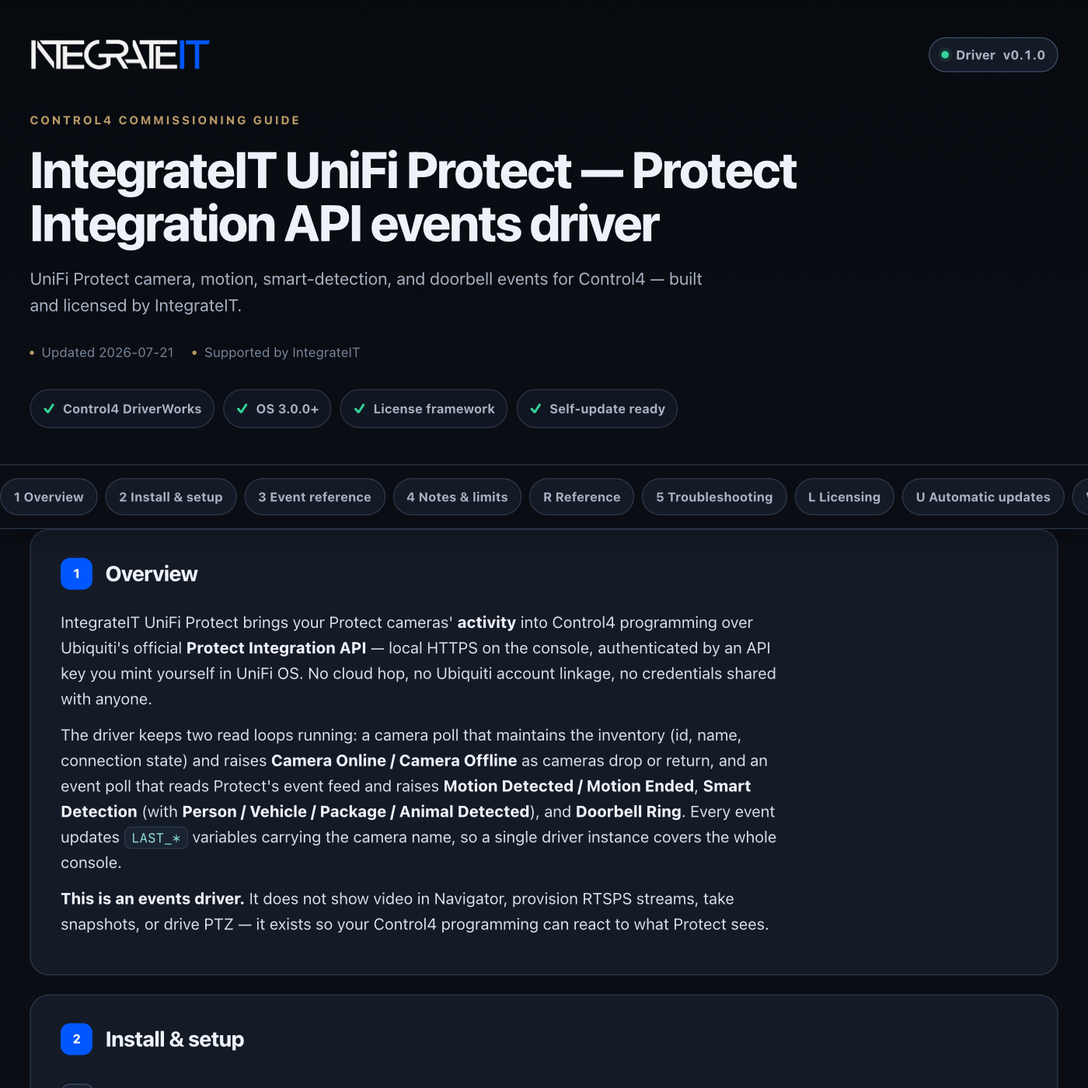
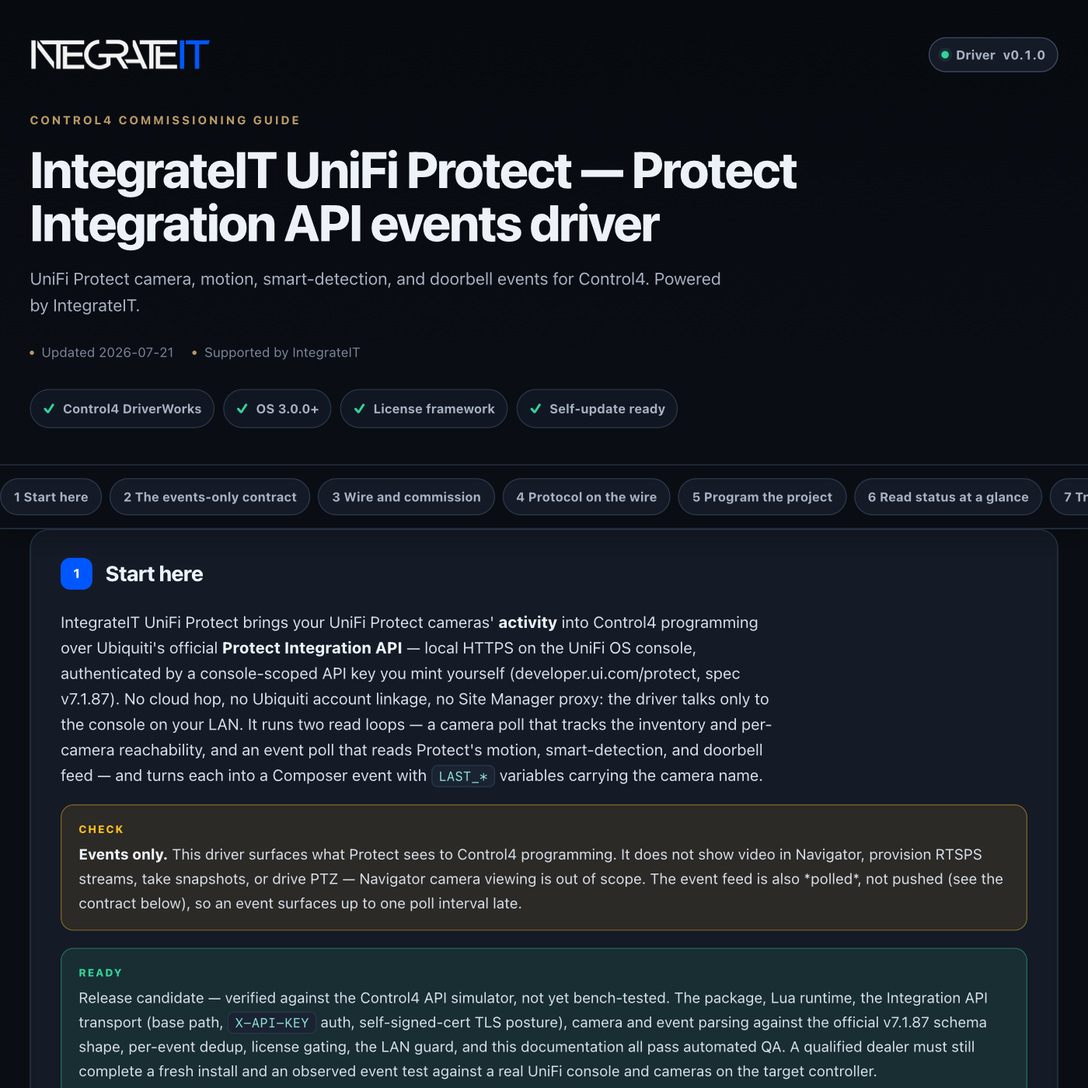
control4: publish driver channel (integrateit_unifi_protect 0.1.1)

diff --git a/control4/integrateit_unifi_protect/documentation.html b/control4/integrateit_unifi_protect/documentation.html
@@ -179,13 +179,13 @@ td code{white-space:normal}
     <div class="wrap">
       <div class="brandbar">
[1 lines of base64/hex data omitted]
-        <span class="version"><span class="word">Driver</span> v0.1.0</span>
+        <span class="version"><span class="word">Driver</span> v0.1.1</span>
       </div>
       <p class="eyebrow">Control4 commissioning guide</p>
       <h1>IntegrateIT UniFi Protect — Protect Integration API events driver</h1>
-      <p class="sub">UniFi Protect camera, motion, smart-detection, and doorbell events for Control4 — built and licensed by IntegrateIT.</p>
+      <p class="sub">UniFi Protect camera, motion, smart-detection, and doorbell events for Control4. Powered by IntegrateIT.</p>
       <div class="meta">
-        <span>Updated 2026-07-21</span>
+        <span>Updated 2026-07-26</span>
         <span>Supported by IntegrateIT</span>
       </div>
       <div class="readiness" aria-label="Driver capabilities">
@@ -198,58 +198,143 @@ td code{white-space:normal}
   </header>
 
   <div class="toc-wrap">
-    <nav class="toc wrap" aria-label="Documentation sections"><a href="#overview">1 Overview</a><a href="#install">2 Install &amp; setup</a><a href="#events">3 Event reference</a><a href="#notes">4 Notes &amp; limits</a><a href="#reference">R Reference</a><a href="#troubleshooting">5 Troubleshooting</a><a href="#licensing">L Licensing</a><a href="#updates">U Automatic updates</a><a href="#changelog">V Version history</a></nav>
+    <nav class="toc wrap" aria-label="Documentation sections"><a href="#overview">1 Start here</a><a href="#events-only">2 The events-only contract</a><a href="#setup">3 Wire and commission</a><a href="#protocol">4 Protocol on the wire</a><a href="#programming">5 Program the project</a><a href="#status">6 Read status at a glance</a><a href="#troubleshooting">7 Troubleshoot methodically</a><a href="#trust">8 Ownership, privacy, and licensing</a><a href="#reference">R Reference</a><a href="#licensing">L Licensing</a><a href="#updates">U Automatic updates</a><a href="#changelog">V Version history</a></nav>
   </div>
 
   <main class="wrap">
     <section class="card" id="overview" data-card="overview">
-  <h2><span class="n">1</span> Overview</h2>
-  <p>IntegrateIT UniFi Protect brings your Protect cameras' <b>activity</b> into Control4 programming over Ubiquiti's official <b>Protect Integration API</b> — local HTTPS on the console, authenticated by an API key you mint yourself in UniFi OS. No cloud hop, no Ubiquiti account linkage, no credentials shared with anyone.</p>
-  <p>The driver keeps two read loops running: a camera poll that maintains the inventory (id, name, connection state) and raises <b>Camera Online / Camera Offline</b> as cameras drop or return, and an event poll that reads Protect's event feed and raises <b>Motion Detected / Motion Ended</b>, <b>Smart Detection</b> (with <b>Person / Vehicle / Package / Animal Detected</b>), and <b>Doorbell Ring</b>. Every event updates <code>LAST_*</code> variables carrying the camera name, so a single driver instance covers the whole console.</p>
-  <p><b>This is an events driver.</b> It does not show video in Navigator, provision RTSPS streams, take snapshots, or drive PTZ — it exists so your Control4 programming can react to what Protect sees.</p>
+  <h2><span class="n">1</span> Start here</h2>
+  <p>IntegrateIT UniFi Protect brings your UniFi Protect cameras' <b>activity</b> into Control4 programming over Ubiquiti's official <b>Protect Integration API</b> — local HTTPS on the UniFi OS console, authenticated by a console-scoped API key you mint yourself (developer.ui.com/protect, spec v7.1.87). No cloud hop, no Ubiquiti account linkage, no Site Manager proxy: the driver talks only to the console on your LAN. It runs two read loops — a camera poll that tracks the inventory and per-camera reachability, and an event poll that reads Protect's motion, smart-detection, and doorbell feed — and turns each into a Composer event with <code>LAST_*</code> variables carrying the camera name.</p>
+  <div class="note warn"><b>Events only.</b> This driver surfaces what Protect sees to Control4 programming. It does not show video in Navigator, provision RTSPS streams, take snapshots, or drive PTZ — Navigator camera viewing is out of scope. The event feed is also *polled*, not pushed (see the contract below), so an event surfaces up to one poll interval late.</div>
+  <div class="note good">Release candidate — verified against the Control4 API simulator, not yet bench-tested. The package, Lua runtime, the Integration API transport (base path, <code>X-API-KEY</code> auth, self-signed-cert TLS posture), camera and event parsing against the official v7.1.87 schema shape, per-event dedup, license gating, the LAN guard, and this documentation all pass automated QA. A qualified dealer must still complete a fresh install and an observed event test against a real UniFi console and cameras on the target controller.</div>
+  <p><b>What you get</b></p>
+  <ul>
+    <li>Motion Detected / Motion Ended per camera from Protect's event feed</li>
+    <li>Smart detections — a generic <b>Smart Detection</b> plus <b>Person / Vehicle / Package / Animal Detected</b>, with the type in <code>LAST_SMART_TYPE</code></li>
+    <li><b>Doorbell Ring</b> events from G4/G5 doorbells, with <code>LAST_RING_CAMERA</code></li>
+    <li>Camera inventory (<code>CAMERA_COUNT</code> / <code>CAMERAS_CONNECTED</code>) and <b>Camera Online / Camera Offline</b> on real connection-state transitions</li>
+    <li><b>Console Online / Console Offline</b> reachability events and a <code>CONSOLE_ONLINE</code> variable</li>
+    <li>A <b>Watched Cameras</b> filter to scope event firing to specific camera ids</li>
+    <li>Diagnostic actions — <b>Test Connection</b>, <b>List Cameras</b>, <b>Print Configuration</b></li>
+    <li>LAN-only destination guard, an API key that is never written to the log, and MAC-locked IntegrateIT licensing</li>
+  </ul>
 </section>
 
-<section class="card" id="install" data-card="install">
-  <h2><span class="n">2</span> Install &amp; setup</h2>
+<section class="card" id="events-only" data-card="events-only">
+  <h2><span class="n">2</span> The events-only contract</h2>
+  <p>This driver reports what Protect tells it and nothing more. It reads two endpoints and never fabricates a camera, a state, or an event the console did not report.</p>
+  <ul>
+    <li><b>No media, ever.</b> There is no video, stream, snapshot, or PTZ path in this driver — not disabled, absent. It is an event bridge for programming; anything claiming otherwise would be faking it.</li>
+    <li><b>The event feed is polled, not pushed.</b> Protect publishes motion / smart-detect / ring events on a WebSocket subscription (<code>GET /v1/subscribe/events</code>). This version polls that path over plain HTTPS every <b>Event Poll (s)</b> (default 3 s) instead of holding a WebSocket, so an event surfaces up to one interval late. A console that answers the path only after a WebSocket upgrade rejects the poll — the driver says exactly that in <b>Event Feed</b> and does not pretend events are flowing. Realtime WebSocket push is planned, not in v0.1.0.</li>
+    <li><b>Camera-offline trails reality.</b> Camera Online/Offline derive from the per-camera connection state reported on the <b>Camera Poll (s)</b> cadence (default 30 s), so a drop is observed up to one camera-poll interval after it happens.</li>
+    <li><b>CONNECTING is not "down".</b> The console reports CONNECTED, CONNECTING, or DISCONNECTED. Only the two settled endpoints move the published state and fire an event; a transient CONNECTED→CONNECTING→CONNECTED blip (adoption, reconnect) fires nothing, and an unparsable state is never treated as a transition.</li>
+    <li><b>The camera poll owns the offline verdict.</b> On the wire, Console Offline is declared only by the camera poll's definitive REST endpoint (<code>GET /v1/cameras</code>). The event poll targets a WebSocket endpoint a healthy console can silently drop, so it may only *confirm* the console is reachable — it never declares it offline, and a transient event-poll drop can't flap Console Offline/Online. The one path outside the camera poll is the LAN guard: a blocked console address marks the console offline from either loop, because nothing was sent at all.</li>
+    <li><b>A camera is known by its id until inventory names it.</b> Event <code>LAST_*</code> variables carry the camera's name once the camera poll has learned it; until then they carry the raw id. The first observation of any camera adopts its state silently — no boot-time flood of Online/Offline events.</li>
+  </ul>
+</section>
+
+<section class="card" id="setup" data-card="setup">
+  <h2><span class="n">3</span> Wire and commission</h2>
   <ol class="steps">
-    <li>On the console, sign in to <b>UniFi OS</b> → Settings → <b>Control Plane</b> → <b>Integrations</b> → <b>Create API Key</b>. Copy the key immediately — UniFi shows it only once.</li>
-    <li>Note the console's <b>IP address</b> (reserve it in the router's DHCP table so it does not change).</li>
-    <li>Add this driver to the project. Enter <code>Console IP Address</code> and <code>API Key</code> (<code>Console Port</code> stays 443 unless you changed it).</li>
-    <li>Run the <b>Test Connection</b> action — it calls <code>GET /v1/meta/info</code> and prints the Protect version the console answered with.</li>
-    <li>Run <b>List Cameras</b> — it prints every camera's id, name, and connection state. Optionally paste ids into <code>Watched Cameras</code> to scope events to specific cameras.</li>
-    <li>In Programming, react to the events (see below) and read the <code>LAST_*</code> variables for the camera name.</li>
-    <li>Optionally enter a <code>License Key</code> (see Licensing) — the driver runs in Lenient mode without one.</li>
+    <li>On the console, sign in to <b>UniFi OS</b> → <b>Settings</b> → <b>Control Plane</b> → <b>Integrations</b> → <b>Create API Key</b>. Copy the key immediately — UniFi shows it once. It is console-scoped and sent only as the <code>X-API-KEY</code> header.</li>
+    <li>Reserve the console's <b>IP address</b> in the router's DHCP table so it cannot move out from under the driver.</li>
+    <li>Add <b>IntegrateIT UniFi Protect</b> to the project. Set <b>Console IP Address</b> and <b>API Key</b>; leave <b>Console Port</b> at 443 unless you changed it. The address must be on the LAN — a public or routed host is refused unless you deliberately set <b>Allow WAN Console</b> to Yes.</li>
+    <li>Run the <b>Test Connection</b> action. It calls <code>GET /v1/meta/info</code> and prints the Protect application version the console answered with; <b>Console Status</b> then reads <code>Online — Protect &lt;version&gt;</code>.</li>
+    <li>Run <b>List Cameras</b>. It prints every camera's id, name, and state. To scope events to specific cameras, paste their ids (comma-separated) into <b>Watched Cameras</b>; leave it empty for all cameras.</li>
+    <li>In Programming, add reactions to the events below and read the <code>LAST_*</code> variables for the camera name. Trip a real camera and confirm <b>Motion Detected</b> fires, then <b>Motion Ended</b> follows — that proves the whole path end to end.</li>
+    <li>For production, enter a <b>License Key</b> and run <b>Activate License Now</b>. <b>License Enforcement</b> ships as <code>Lenient (recommended)</code>, which lets an unactivated driver fire events while <code>License Status</code> carries the nag; <code>Strict</code> withholds every event until a key is activated against this controller.</li>
   </ol>
 </section>
 
-<section class="card" id="events" data-card="events">
-  <h2><span class="n">3</span> Event reference</h2>
+<section class="card" id="protocol" data-card="protocol">
+  <h2><span class="n">4</span> Protocol on the wire</h2>
+  <p>Every request is HTTPS to the console on the official local base path, with the API key as the only credential. Turn on <b>Debug Mode → Print</b> to watch each call in the Lua output window — method and path only; the key is never shown.</p>
+  <p>Base path: <code>https://&lt;console&gt;:&lt;port&gt;/proxy/protect/integration</code></p>
   <table>
-    <tr><th>Event</th><th>Fires when</th><th>Variables updated</th></tr>
-    <tr><td>Motion Detected</td><td>A camera reports a new motion event</td><td><code>LAST_MOTION_CAMERA</code>, <code>LAST_EVENT_CAMERA</code>, <code>LAST_EVENT_TYPE</code></td></tr>
-    <tr><td>Motion Ended</td><td>That motion event's end timestamp arrives</td><td><code>LAST_EVENT_TYPE</code></td></tr>
-    <tr><td>Smart Detection</td><td>Any smart detection (all types)</td><td><code>LAST_SMART_TYPE</code>, <code>LAST_SMART_CAMERA</code></td></tr>
-    <tr><td>Person / Vehicle / Package / Animal Detected</td><td>The smart detection included that type</td><td>same as Smart Detection</td></tr>
-    <tr><td>Doorbell Ring</td><td>A doorbell button was pressed</td><td><code>LAST_RING_CAMERA</code></td></tr>
-    <tr><td>Camera Online / Offline</td><td>A camera's connection state changed</td><td><code>LAST_OFFLINE_CAMERA</code> (offline only)</td></tr>
-    <tr><td>Console Online / Offline</td><td>The console became (un)reachable</td><td><code>CONSOLE_ONLINE</code></td></tr>
+    <tr><th>Call</th><th>Purpose</th></tr>
+    <tr><td><code>GET /v1/meta/info</code></td><td>Test Connection — reads <code>applicationVersion</code></td></tr>
+    <tr><td><code>GET /v1/cameras</code></td><td>Camera inventory + per-camera <code>state</code> (the authoritative reachability and online/offline source)</td></tr>
+    <tr><td><code>GET /v1/subscribe/events</code></td><td>The event feed, polled over HTTPS for <code>add</code> / <code>update</code> frames</td></tr>
   </table>
-  <p><code>CAMERA_COUNT</code> and <code>CAMERAS_CONNECTED</code> track the inventory. <b>Refresh Cameras</b> and <b>Poll Events Now</b> commands force either loop immediately.</p>
+  <p>Event frames are envelopes <code>{"type":"add"|"update","item":{…}}</code> whose <code>item</code> is a discriminated union; the driver keys off the literal <code>type</code> constant (<code>motion</code>, <code>ring</code>, <code>smartDetect…</code>), so JSON key order never matters and a truncated body yields no events at all. A motion frame carrying an <code>end</code> timestamp is what fires <b>Motion Ended</b>; smart frames carry <code>smartDetectTypes</code>.</p>
+  <table>
+    <tr><th>HTTP status</th><th>The driver's reading</th></tr>
+    <tr><td><code>200</code></td><td>Parsed normally</td></tr>
+    <tr><td><code>401</code> / <code>403</code></td><td>The console answered but refused the key — check <b>API Key</b></td></tr>
+    <tr><td><code>400</code> / <code>404</code> / <code>405</code> / <code>426</code> (event feed)</td><td>This console serves events only across a WebSocket upgrade; reported in <b>Event Feed</b>, camera online/offline keep working</td></tr>
+    <tr><td><code>0</code> (no response)</td><td>Transport failure. On the camera poll this is the Console Offline verdict; on the event poll it only marks the feed offline, never the console</td></tr>
+  </table>
+  <p>UniFi consoles ship a self-signed certificate, so the driver relaxes TLS verification by default (<code>ssl_verify_peer</code> / <code>ssl_verify_host</code> off). Set <b>Verify TLS Certificate</b> to Yes only for a console presenting a certificate the controller can validate. On very old OS builds without the modern URL API the driver falls back to a legacy HTTP path that cannot relax verification and may fail against a self-signed console.</p>
 </section>
 
-<section class="card" id="notes" data-card="notes">
-  <h2><span class="n">4</span> Notes &amp; limits</h2>
+<section class="card" id="programming" data-card="programming">
+  <h2><span class="n">5</span> Program the project</h2>
+  <table>
+    <tr><th>Event</th><th>Fires when</th><th>Variables set</th></tr>
+    <tr><td>Motion Detected</td><td>A camera reports a new motion event</td><td><code>LAST_EVENT_CAMERA</code>, <code>LAST_EVENT_TYPE</code>, <code>LAST_MOTION_CAMERA</code></td></tr>
+    <tr><td>Motion Ended</td><td>That motion's end timestamp arrives</td><td><code>LAST_EVENT_CAMERA</code>, <code>LAST_EVENT_TYPE</code> (= <code>motion-end</code>) — <code>LAST_MOTION_CAMERA</code> is left as it was</td></tr>
+    <tr><td>Smart Detection</td><td>Any smart detection, any type</td><td><code>LAST_EVENT_CAMERA</code>, <code>LAST_EVENT_TYPE</code>, <code>LAST_SMART_CAMERA</code>, <code>LAST_SMART_TYPE</code></td></tr>
+    <tr><td>Person / Vehicle / Package / Animal Detected</td><td>The smart detection included that type</td><td>as Smart Detection (one event per type present)</td></tr>
+    <tr><td>Doorbell Ring</td><td>A doorbell button was pressed</td><td><code>LAST_EVENT_CAMERA</code>, <code>LAST_EVENT_TYPE</code>, <code>LAST_RING_CAMERA</code></td></tr>
+    <tr><td>Camera Online / Camera Offline</td><td>A camera settled to CONNECTED / DISCONNECTED</td><td><code>LAST_OFFLINE_CAMERA</code> (offline), <code>CAMERAS_CONNECTED</code></td></tr>
+    <tr><td>Console Online / Console Offline</td><td>The console became (un)reachable</td><td><code>CONSOLE_ONLINE</code></td></tr>
+  </table>
+  <table>
+    <tr><th>Variable</th><th>Type</th><th>Meaning</th></tr>
+    <tr><td><code>CONSOLE_ONLINE</code></td><td>BOOL</td><td>Live console-reachability mirror (tracks even when events are license-withheld)</td></tr>
+    <tr><td><code>CAMERA_COUNT</code> / <code>CAMERAS_CONNECTED</code></td><td>STRING</td><td>Inventory totals from the last camera poll</td></tr>
+    <tr><td><code>LAST_EVENT_TYPE</code> / <code>LAST_EVENT_CAMERA</code></td><td>STRING</td><td>Kind (<code>motion</code>, <code>motion-end</code>, <code>ring</code>, <code>smart</code>) and camera of the last feed event</td></tr>
+    <tr><td><code>LAST_MOTION_CAMERA</code> / <code>LAST_RING_CAMERA</code></td><td>STRING</td><td>Camera name of the last motion / ring</td></tr>
+    <tr><td><code>LAST_SMART_CAMERA</code> / <code>LAST_SMART_TYPE</code></td><td>STRING</td><td>Camera and first detected type of the last smart detection</td></tr>
+    <tr><td><code>LAST_OFFLINE_CAMERA</code></td><td>STRING</td><td>Camera name of the last Camera Offline</td></tr>
+  </table>
+  <p>Three ways these wire into Composer programming:</p>
   <ul>
-    <li><b>Events are polled, not pushed.</b> Protect publishes motion/smart/ring events on a WebSocket subscription (<code>GET /v1/subscribe/events</code>); this version polls that path over plain HTTPS on the <code>Event Poll (s)</code> interval instead of holding a WebSocket. Event latency is up to one poll interval. A console that answers the event path only after a WebSocket upgrade rejects the poll — the driver reports exactly that in <code>Event Feed</code>, and camera online/offline events (which come from the camera poll) keep working. Realtime WebSocket push is planned, not in v0.1.0.</li>
-    <li><b>Camera-offline detection trails by up to one camera poll</b> (default 30 s) — it derives from the console's reported per-camera connection state.</li>
-    <li><b>Self-signed HTTPS.</b> UniFi consoles ship a self-signed certificate, so the driver skips TLS certificate verification by default. Set <code>Verify TLS Certificate</code> to Yes only if your console presents a validatable certificate. Traffic is still TLS-encrypted either way.</li>
-    <li>The <code>API Key</code> is treated as a secret: it is sent only in the <code>X-API-KEY</code> request header and is never written to the Lua log, even with Debug Mode on.</li>
-    <li>The driver refuses a non-LAN console address unless <code>Allow WAN Console</code> is set to Yes. The Site Manager cloud proxy (api.ui.com) is not used.</li>
-    <li>Sensor, siren, light, viewer, and alarm-manager surfaces of the Integration API are out of scope for this version — cameras only.</li>
+    <li><b>When Doorbell Ring fires → announce and turn on the entry lights.</b> Read <code>LAST_RING_CAMERA</code> to name which door on a multi-doorbell site.</li>
+    <li><b>When Person Detected fires after dark → run a "driveway arrival" scene.</b> Gate on <code>LAST_SMART_CAMERA</code> to react only for the camera you mean.</li>
+    <li><b>When Camera Offline fires → notify the homeowner and log <code>LAST_OFFLINE_CAMERA</code>.</b> Pair it with Camera Online to auto-clear the alert.</li>
   </ul>
+  <p>Composer event delivery is the licensed product, so <b>every</b> event above — including Console Online/Offline — is held back under Strict enforcement on an unlicensed controller; the read loops still run and the state variables (<code>CONSOLE_ONLINE</code>, <code>CAMERA_COUNT</code>, …) still track, so Status stays honest. Lenient mode fires everything and keeps <code>License Status</code> carrying the nag. <b>Refresh Cameras</b> and <b>Poll Events Now</b> force either loop immediately.</p>
+</section>
+
+<section class="card" id="status" data-card="status">
+  <h2><span class="n">6</span> Read status at a glance</h2>
+  <table>
+    <tr><th>Property</th><th>Healthy result</th><th>What it means otherwise</th></tr>
+    <tr><td><code>Console Status</code></td><td><code>Online — Protect &lt;version&gt;</code> after Test Connection</td><td><code>Unknown</code> until the first Test Connection, <code>No console IP set</code>, <code>Blocked: …</code> (LAN guard), <code>Auth failed (HTTP n)</code>, <code>Offline (no response)</code>, or <code>Console error (HTTP n)</code></td></tr>
+    <tr><td><code>Event Feed</code></td><td><code>Polling (Ns)</code></td><td><code>Auth failed …</code> (key), the WebSocket-upgrade message (this firmware needs push), <code>Offline (no response)</code>, or <code>Blocked: …</code></td></tr>
+    <tr><td><code>Cameras</code></td><td><code>&lt;n&gt; connected / &lt;total&gt;</code></td><td><code>None found</code>, <code>Auth failed …</code>, or <code>Console error (HTTP n)</code></td></tr>
+    <tr><td><code>CONSOLE_ONLINE</code></td><td><code>1</code> once either poll gets any HTTP status back — an answer of any kind proves the console is there</td><td><code>0</code> after the camera poll gets no response, or while the LAN guard is blocking the configured address</td></tr>
+    <tr><td><code>License Status</code></td><td>Activated, or Lenient during commissioning</td><td>Enter a key before selecting Strict enforcement</td></tr>
+  </table>
+  <p><code>CONSOLE_ONLINE</code> (with the Console Online/Offline events) is the live reachability signal — program against it, not against the text property. <b>Console Status</b> is painted by <b>Test Connection</b>, by the LAN guard, and by a missing console IP; the pollers do not repaint it. On a console you never ran Test Connection against it stays at <code>Unknown</code> even while the driver is polling it happily, so run Test Connection when you want that line refreshed. <b>Print Configuration</b> writes the console, poll intervals, watched-camera filter, TLS/WAN posture, and camera count to the Lua output window — the API key appears only as a character count, never its value.</p>
+</section>
+
+<section class="card" id="troubleshooting" data-card="troubleshooting">
+  <h2><span class="n">7</span> Troubleshoot methodically</h2>
+  <table>
+    <tr><th>Symptom</th><th>Likely cause</th><th>Fix</th></tr>
+    <tr><td>Nothing responds; <code>Console Status</code> <code>Offline (no response)</code></td><td>Wrong IP/port, or the host is not a UniFi OS console running Protect</td><td>Confirm the reserved LAN IP and port 443, then run <b>Test Connection</b></td></tr>
+    <tr><td><code>Console Status</code> / <code>Event Feed</code> reads <code>Blocked: …</code></td><td>The console address is not on the LAN</td><td>Use the console's LAN IP, or set <b>Allow WAN Console</b> to Yes only if you truly mean to route to it</td></tr>
+    <tr><td><code>Auth failed (HTTP 401/403)</code> anywhere</td><td>Wrong or revoked API key</td><td>Mint a fresh key in UniFi OS → Control Plane → Integrations and paste it into <b>API Key</b></td></tr>
+    <tr><td><code>Event Feed</code> says the console needs WebSocket push</td><td>This firmware serves events only across a WebSocket upgrade</td><td>Motion/smart/ring events are unavailable on this console in v0.1.0; camera online/offline still work</td></tr>
+    <tr><td><code>Event Feed</code> says Polling but no events fire</td><td><b>Watched Cameras</b> filters them out, or Strict + unlicensed</td><td>Clear or fix the ids via <b>List Cameras</b>; check <code>License Status</code></td></tr>
+    <tr><td><code>Console Status</code> still reads <code>Unknown</code> while <code>Cameras</code> and <code>Event Feed</code> look healthy</td><td>Nothing is wrong with the console — that property is only written by <b>Test Connection</b>, the LAN guard, and the no-IP path</td><td>Run <b>Test Connection</b> to paint it; drive programming from <code>CONSOLE_ONLINE</code> and the Console Online/Offline events</td></tr>
+    <tr><td>Camera Offline arrives late</td><td>Detection trails by up to one camera poll</td><td>Lower <b>Camera Poll (s)</b> if you need faster offline detection</td></tr>
+    <tr><td>A camera "flaps" during a reboot</td><td>Expected — the camera passes through CONNECTING</td><td>No action; the driver already ignores the transient midpoint</td></tr>
+  </table>
+  <div class="note">Turn on <b>Debug Mode → Print</b> to watch every HTTP call (method + path only — the API key is never shown) in the Lua output window.</div>
+  <p>If a symptom survives every check above, run <b>Print Configuration</b>, capture the Lua output window, and send it to support@integrateit.tech · (913) 804-7575.</p>
+</section>
+
+<section class="card" id="trust" data-card="trust">
+  <h2><span class="n">8</span> Ownership, privacy, and licensing</h2>
+  <p>This package is an original IntegrateIT implementation of Ubiquiti's published Protect Integration API (developer.ui.com/protect). It bundles no Ubiquiti runtime, source code, brand assets, trial system, or license. UniFi and UniFi Protect are trademarks of Ubiquiti Inc.; IntegrateIT is not affiliated with Ubiquiti, and this driver is not a Ubiquiti product. Driver engineering, Control4 integration, documentation, QA, licensing, updates, and support are provided by IntegrateIT.</p>
+  <p>The driver talks only to the UniFi console on your LAN. Nothing goes to Ubiquiti's cloud, api.ui.com, or the Site Manager proxy — a non-LAN console address is refused outright unless <b>Allow WAN Console</b> is set to Yes. The API key lives only in the request header and is never written to the log, not even with Debug Mode on; <b>Print Configuration</b> shows its length, never its value. No camera, event, project, or Control4 identity is sent to any device vendor.</p>
+  <p>Lenient mode allows commissioning without an activated key and keeps <code>License Status</code> visible. Strict mode blocks all Composer event delivery until the Ops Portal has minted and validated a key bound to this controller by MAC; the read loops and state variables keep running either way. Installing this package does not itself mint or activate a controller license, and the shared IntegrateIT license and update services use the controller identity, driver slug, version, configured key, and update channel as documented in the reference below. Self-update is check-and-stage, never silent: with <b>Automatic Update Check</b> on <code>Daily</code> the driver reads the version manifest, reports a newer build in <b>Update Available</b>, and only downloads the <code>.c4z</code> into the controller's driver store when you run <b>Download &amp; Stage Update</b> — you still apply it from Composer.</p>
 <section class="card" id="reference" data-card="reference">
   <h2><span class="n">R</span> Reference</h2>
-  <p>Generated from the driver manifest at build time — always matches this build (v0.1.0).</p>
+  <p>Generated from the driver manifest at build time — always matches this build (v0.1.1).</p>
   <h3>Properties</h3>
   <table>
     <tr><th>Property</th><th>Type</th><th>Default</th><th>Description</th></tr>
@@ -316,19 +401,6 @@ td code{white-space:normal}
   </table>
 </section>
 </section>
-
-<section class="card" id="troubleshooting" data-card="troubleshooting">
-  <h2><span class="n">5</span> Troubleshooting</h2>
-  <table>
-    <tr><th>Symptom</th><th>Likely cause</th><th>Fix</th></tr>
-    <tr><td>"Auth failed (HTTP 401/403)"</td><td>Wrong or revoked API key</td><td>Mint a fresh key in UniFi OS → Control Plane → Integrations and paste it into <code>API Key</code>.</td></tr>
-    <tr><td><code>Event Feed</code> says the console rejected the HTTP event poll</td><td>Console serves events only across a WebSocket upgrade</td><td>Motion/smart/ring events are unavailable on this firmware in v0.1.0; camera online/offline events still work.</td></tr>
-    <tr><td><code>Console Status</code> reads "Blocked: …"</td><td>Console address is not on the LAN</td><td>Use the console's LAN IP, or set <code>Allow WAN Console</code> to Yes if you really mean to route to it.</td></tr>
-    <tr><td>No events fire but <code>Event Feed</code> says Polling</td><td><code>Watched Cameras</code> filters them out, or Strict enforcement + unlicensed</td><td>Clear <code>Watched Cameras</code> or fix the ids via <b>List Cameras</b>; check <code>License Status</code>.</td></tr>
-    <tr><td><code>Console Status</code> stuck Offline</td><td>Console rebooted onto a new IP, or Protect lacks the Integration API</td><td>Reserve the IP in DHCP; update UniFi Protect to a release that publishes the Integration API.</td></tr>
-  </table>
-  <div class="note">Turn on <code>Debug Mode → Print</code> to watch every HTTP call (method + path only — the API key is never shown) in the Lua output window.</div>
-</section>
 <section class="card" id="licensing" data-card="licensing">
   <h2><span class="n">L</span> Licensing</h2>
   <p>This driver is licensed <b>per controller</b>. Each license key locks to one controller's
@@ -376,7 +448,9 @@ td code{white-space:normal}
     <section class="card" id="changelog" data-card="changelog">
   <h2><span class="n">V</span> Version history</h2>
   <div class="chg">
-    <div class="rel"><b>v0.1.0</b> <span class="pill green">current</span><span class="d">2026-07-21</span>
+    <div class="rel"><b>v0.1.1</b> <span class="pill green">current</span><span class="d">2026-07-26</span>
+      <ul><li>Documentation rebuilt to the IntegrateIT commissioning-guide standard: uniform sections, honest contracts, verified claim-by-claim against the code.</li></ul></div>
+    <div class="rel"><b>v0.1.0</b><span class="d">2026-07-21</span>
       <ul><li>Initial release candidate: events driver for the official Protect Integration API (developer.ui.com/protect, spec v7.1.87) — local HTTPS on the console, X-API-KEY auth with a customer-minted key.</li><li>Camera inventory poll (GET /v1/cameras) publishes CAMERA_COUNT / CAMERAS_CONNECTED and fires Camera Online/Offline on per-camera CONNECTED↔DISCONNECTED transitions; List Cameras prints ids for the Watched Cameras filter.</li><li>Event feed poll (GET /v1/subscribe/events over plain HTTPS) fires Motion Detected/Ended, Smart Detection plus Person/Vehicle/Package/Animal Detected, and Doorbell Ring, with per-event-id dedup and LAST_* camera-name variables; consoles that require the WebSocket upgrade are reported honestly in Event Feed.</li><li>Console reachability (Console Online/Offline + CONSOLE_ONLINE), Test Connection via GET /v1/meta/info (prints the Protect version).</li><li>Self-signed-cert TLS posture (verification relaxed by default, dealer-overridable), LAN-only destination guard with an Allow WAN Console override, API key never logged, and license-gated Composer event delivery.</li><li>Pre-ship adversarial review fixes:</li><li>License integrity: Console Online/Offline are Composer events (ids 22/23), so their delivery is now inside the license gate like every other device event — a Strict-unlicensed controller no longer receives reachability events. The CONSOLE_ONLINE state mirror still tracks reachability so Status stays honest.</li><li>Reachability ownership: the console offline verdict is now owned solely by the camera poll's definitive REST endpoint (GET /v1/cameras). The event poll targets a WebSocket endpoint a healthy console can drop with no HTTP response (code 0), so it may only confirm reachability, never declare offline — a transient drop at the fast event cadence no longer flaps Console Offline/Online against the camera poll.</li><li>deviceState fidelity: CONNECTING (the third official enum value alongside CONNECTED/DISCONNECTED) is treated as a transient midpoint, not a down state — a brief CONNECTED→CONNECTING→CONNECTED blip no longer fires a spurious Camera Offline/Online pair, and a garbage UNKNOWN state no longer moves the published connection state.</li><li>Known limits: events only (no video/streams/snapshots/PTZ); polled feed (latency ≤ one poll interval; WebSocket push not in v0.1.0); camera-offline detection trails by ≤ one camera poll; local console only (no Site Manager cloud proxy).</li></ul></div>
   </div>
 </section>

diff --git a/control4/integrateit_unifi_protect/CHANGELOG.md b/control4/integrateit_unifi_protect/CHANGELOG.md
@@ -1,5 +1,8 @@
 # Changelog — IntegrateIT UniFi Protect
 
+## [0.1.1] - 2026-07-26
+- Documentation rebuilt to the IntegrateIT commissioning-guide standard: uniform sections, honest contracts, verified claim-by-claim against the code.
+
 ## [0.1.0] - 2026-07-21
 - Initial release candidate: events driver for the official Protect Integration API (developer.ui.com/protect, spec v7.1.87) — local HTTPS on the console, X-API-KEY auth with a customer-minted key.
 - Camera inventory poll (GET /v1/cameras) publishes CAMERA_COUNT / CAMERAS_CONNECTED and fires Camera Online/Offline on per-camera CONNECTED↔DISCONNECTED transitions; List Cameras prints ids for the Watched Cameras filter.
